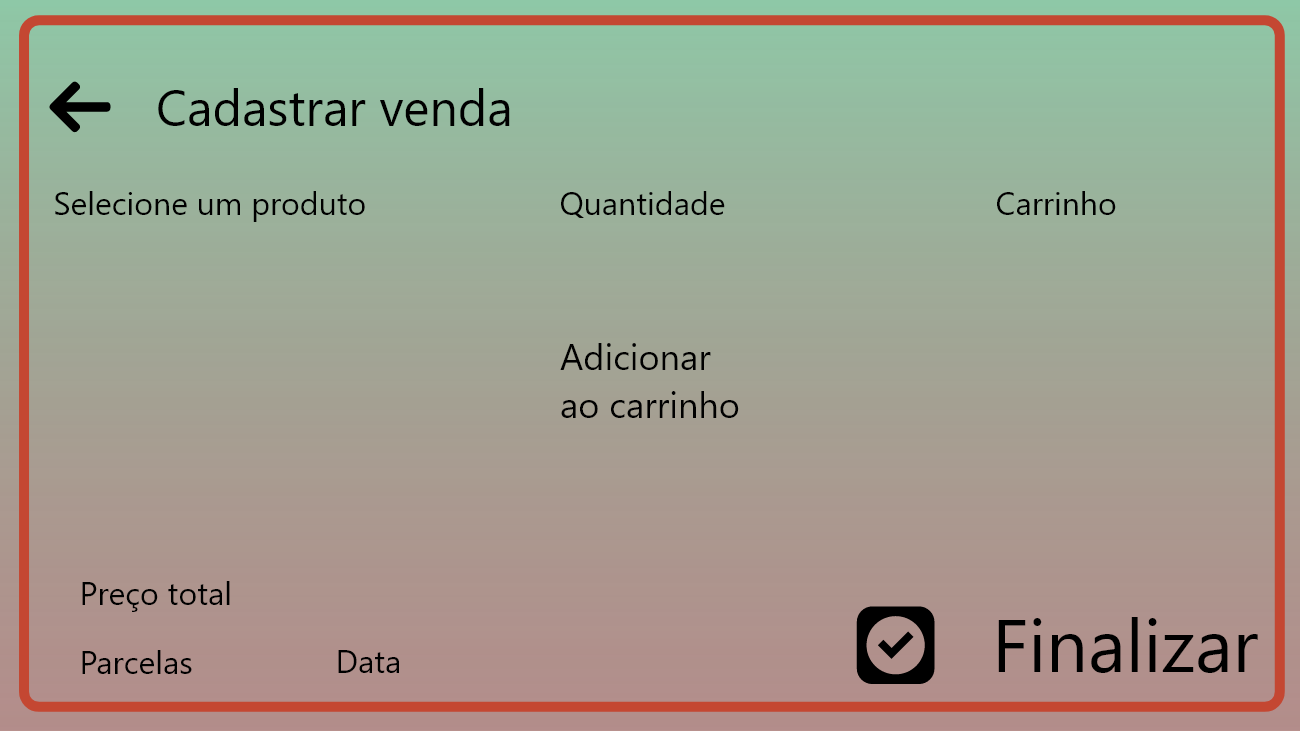
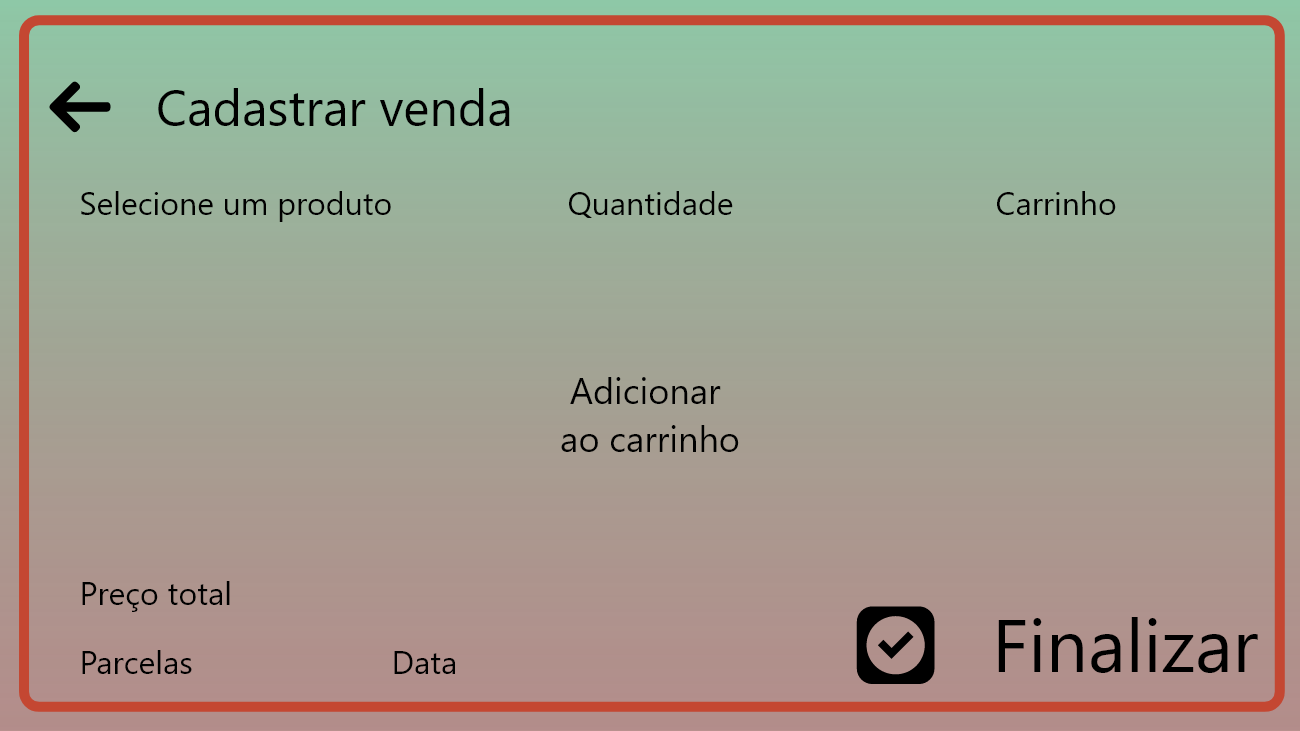
Melhorando layout da tela de cadastrar venda

diff --git a/App/VendaMais/src/view/Cadastrar_venda_carrinho.java b/App/VendaMais/src/view/Cadastrar_venda_carrinho.java
@@ -102,9 +102,11 @@ public class Cadastrar_venda_carrinho extends javax.swing.JFrame {
         preco_total = new javax.swing.JLabel();
         parcelas = new javax.swing.JSpinner();
         finalizar = new javax.swing.JLabel();
+        jButton2 = new javax.swing.JButton();
+        jButton1 = new javax.swing.JButton();
         nada = new javax.swing.JLabel();
 
-        setDefaultCloseOperation(javax.swing.WindowConstants.EXIT_ON_CLOSE);
+        setDefaultCloseOperation(javax.swing.WindowConstants.DISPOSE_ON_CLOSE);
         setTitle("Cadastro da Venda");
         setLocationByPlatform(true);
         setResizable(false);
@@ -175,7 +177,7 @@ public class Cadastrar_venda_carrinho extends javax.swing.JFrame {
         }
 
         getContentPane().add(jScrollPane2);
-        jScrollPane2.setBounds(20, 120, 210, 150);
+        jScrollPane2.setBounds(40, 120, 200, 150);
 
         botao_addcarrinho.setBorder(javax.swing.BorderFactory.createLineBorder(new java.awt.Color(0, 0, 0)));
         botao_addcarrinho.addMouseListener(new java.awt.event.MouseAdapter() {
@@ -184,7 +186,7 @@ public class Cadastrar_venda_carrinho extends javax.swing.JFrame {
             }
         });
         getContentPane().add(botao_addcarrinho);
-        botao_addcarrinho.setBounds(270, 160, 110, 70);
+        botao_addcarrinho.setBounds(270, 180, 110, 60);
 
         icon_voltar.addMouseListener(new java.awt.event.MouseAdapter() {
             public void mouseClicked(java.awt.event.MouseEvent evt) {
@@ -199,15 +201,16 @@ public class Cadastrar_venda_carrinho extends javax.swing.JFrame {
         getContentPane().add(quantidade);
         quantidade.setBounds(270, 120, 110, 30);
         getContentPane().add(data);
-        data.setBounds(210, 320, 90, 30);
+        data.setBounds(240, 320, 100, 30);
 
+        preco_total.setBackground(new java.awt.Color(255, 255, 255));
         preco_total.setFont(new java.awt.Font("Bitstream Vera Serif", 1, 12)); // NOI18N
         getContentPane().add(preco_total);
-        preco_total.setBounds(130, 290, 70, 20);
+        preco_total.setBounds(120, 280, 100, 30);
 
         parcelas.setModel(new javax.swing.SpinnerNumberModel(1, 1, 12, 1));
         getContentPane().add(parcelas);
-        parcelas.setBounds(100, 320, 60, 30);
+        parcelas.setBounds(120, 320, 60, 30);
 
         finalizar.addMouseListener(new java.awt.event.MouseAdapter() {
             public void mouseClicked(java.awt.event.MouseEvent evt) {
@@ -217,7 +220,19 @@ public class Cadastrar_venda_carrinho extends javax.swing.JFrame {
         getContentPane().add(finalizar);
         finalizar.setBounds(400, 290, 240, 70);
 
-        nada.setIcon(new javax.swing.ImageIcon(getClass().getResource("/Imagens/Cadastrar venda – 3.png"))); // NOI18N
+        jButton2.setBackground(new java.awt.Color(255, 255, 255));
+        jButton2.setBorder(null);
+        jButton2.setBorderPainted(false);
+        getContentPane().add(jButton2);
+        jButton2.setBounds(120, 280, 100, 30);
+
+        jButton1.setBackground(new java.awt.Color(255, 255, 255));
+        jButton1.setBorder(null);
+        jButton1.setBorderPainted(false);
+        getContentPane().add(jButton1);
+        jButton1.setBounds(240, 320, 100, 30);
+
+        nada.setIcon(new javax.swing.ImageIcon(getClass().getResource("/Imagens/Cadastrar venda – 3_1.png"))); // NOI18N
         getContentPane().add(nada);
         nada.setBounds(0, 0, 650, 370);
 
@@ -226,7 +241,8 @@ public class Cadastrar_venda_carrinho extends javax.swing.JFrame {
 
     private void icon_voltarMouseClicked(java.awt.event.MouseEvent evt) {//GEN-FIRST:event_icon_voltarMouseClicked
         Cadastrar_venda tela = new Cadastrar_venda();
-        tela.setVisible(true);        // TODO add your handling code here:
+        tela.setVisible(true);
+        this.dispose(); // TODO add your handling code here:
     }//GEN-LAST:event_icon_voltarMouseClicked
 
     private void botao_addcarrinhoMouseClicked(java.awt.event.MouseEvent evt) {//GEN-FIRST:event_botao_addcarrinhoMouseClicked
@@ -319,6 +335,8 @@ public class Cadastrar_venda_carrinho extends javax.swing.JFrame {
     private javax.swing.JLabel data;
     private javax.swing.JLabel finalizar;
     private javax.swing.JLabel icon_voltar;
+    private javax.swing.JButton jButton1;
+    private javax.swing.JButton jButton2;
     private javax.swing.JScrollPane jScrollPane1;
     private javax.swing.JScrollPane jScrollPane2;
     private javax.swing.JLabel nada;
